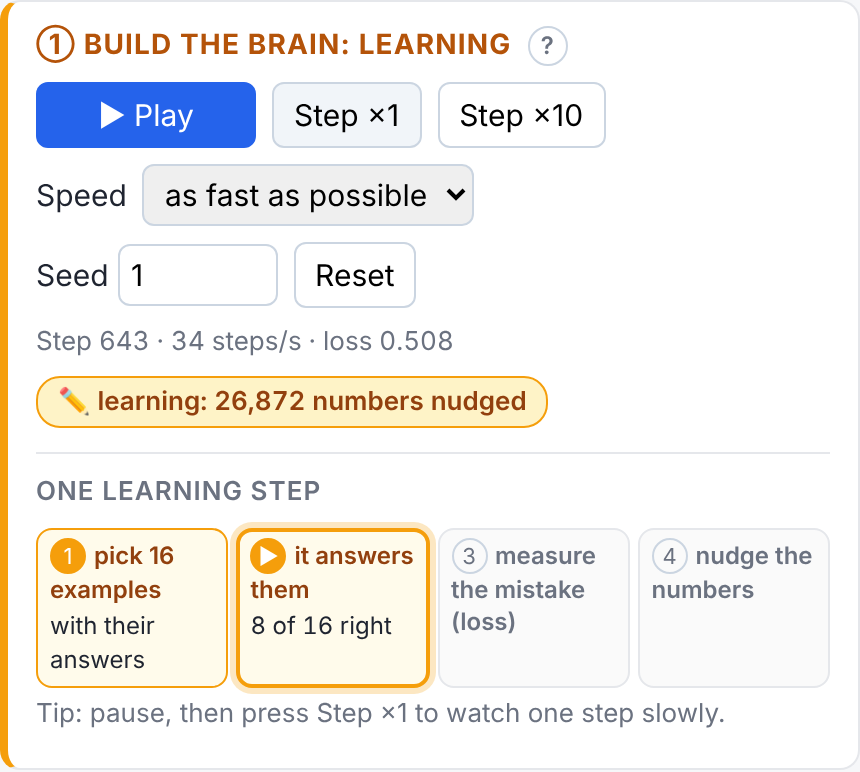
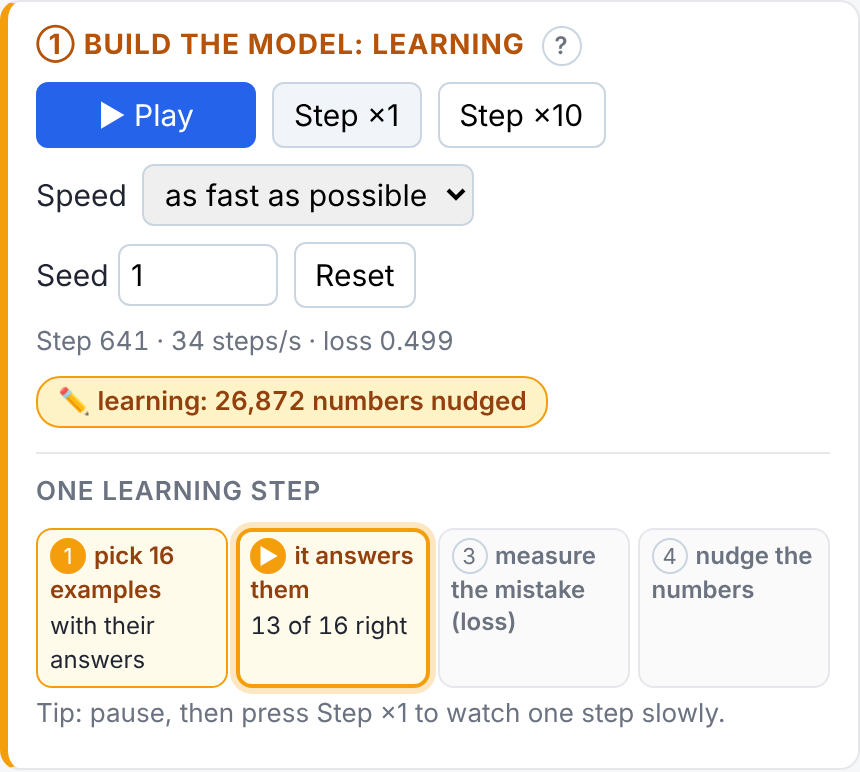
Say "model" everywhere instead of "brain"
All UI text in English and Czech (mozek -> model, same declension), code
comments and test names. Also fixes comments that still referred to the
old Forms and Practice tabs.

Claude-Session: https://claude.ai/code/session_01LQ43S1WB8cRF1rhYQSrvVX

diff --git a/src/ui/app.ts b/src/ui/app.ts
@@ -1,14 +1,14 @@
 /**
  * The app: five tabs, in the order of the story.
- * - Learning data: everything the brain learns from (see dataTab.ts).
- * - Model learning: everything that changes the brain: Play / Step / speed /
+ * - Learning data: everything the model learns from (see dataTab.ts).
+ * - Model learning: everything that changes the model: Play / Step / speed /
  *   seed, the learning badge, the one-step cycle, the latest batch (learning
  *   data and what it answered before learning from it), the loss chart and
  *   the letter map.
- * - Ask the model: everything that only reads the brain: the question box
+ * - Ask the model: everything that only reads the model: the question box
  *   with form and language pickers, the answer, guess bars, attention grids.
- * - Inside the brain: weight heatmaps (see inside.ts).
- * - Test: every animal tested, scoreboard. The brain is tested only while
+ * - Inside the model: weight heatmaps (see inside.ts).
+ * - Test: every animal tested, scoreboard. The model is tested only while
  *   this tab is open (or on request).
  *
  * All training happens in the worker; this file only sends messages and
@@ -88,7 +88,7 @@ export class App {
   private testLang = '';
   private question = { text: '', lang: '', form: 'female' };
   private dirty = { controls: true, answer: true, loss: true, scores: true, animals: true, practice: true, stamp: true };
-  /** The latest batch the brain practised on (learning), and when the strip last changed. */
+  /** The latest batch the model practised on (learning), and when the strip last changed. */
   private practice?: PracticeBatch;
   private practiceShownAt = -Infinity;
   private practiceTimer = 0;
@@ -96,7 +96,7 @@ export class App {
   private learnedAt = -Infinity;
   /** "Keep answering while it learns": re-ask after every tick even while training. */
   private live = false;
-  /** The answer changed because the brain changed (not the question): flash its step label. */
+  /** The answer changed because the model changed (not the question): flash its step label. */
   private stampFlash = false;
   /** "Write it slowly" replay of one answer: how many letters are shown so far. */
   private slow: { answer: AnswerMsg; shown: number; done: boolean; timer: number } | null = null;
@@ -174,7 +174,7 @@ export class App {
         if (this.losses.length > 40000) this.losses = this.losses.filter((_, i) => i % 2 === 0);
         if (msg.practice) this.onPractice(msg.practice, msg);
         if (msg.losses.length) this.requestInspect();
-        // Answering is separate from learning: while the brain learns, the answer
+        // Answering is separate from learning: while the model learns, the answer
         // waits (marked as out of date) unless the user asked for live answers.
         if (this.answer && this.answer.step !== msg.step && (!msg.running || this.live)) this.ask();
         this.invalidate('controls', 'loss', 'stamp');
@@ -187,7 +187,7 @@ export class App {
         this.askInFlight = false;
         if (msg.id === this.askId) {
           const prev = this.answer;
-          // Same question, new brain: the answer refreshed because the brain changed.
+          // Same question, new model: the answer refreshed because the model changed.
           if (prev && prev.step !== msg.step && prev.text === msg.text && prev.lang === msg.lang && prev.form === msg.form) this.stampFlash = true;
           this.answer = msg;
           this.invalidate('answer', 'stamp');
@@ -315,8 +315,8 @@ export class App {
   }
 
   /**
-   * Ask the worker for what the visible tab shows inside the brain: the
-   * weight heatmaps (Inside tab) or the letter map (Forms tab). At most one
+   * Ask the worker for what the visible tab shows inside the model: the
+   * weight heatmaps (Inside tab) or the letter map (Model learning tab). At most one
    * request in flight and one every INSPECT_MS; `now` skips the wait.
    */
   private requestInspect(now = false): void {
@@ -329,7 +329,7 @@ export class App {
     }
     this.inspectDirty = false;
     this.lastInspect = performance.now();
-    if (this.tab !== 'learn' && this.tab !== 'inside') return; // nothing inside the brain to show there
+    if (this.tab !== 'learn' && this.tab !== 'inside') return; // nothing inside the model to show there
     const inside = this.tab === 'inside';
     const matrixIds = inside ? this.inside.wanted() : [];
     if (inside && !matrixIds.length) return;
@@ -414,7 +414,7 @@ export class App {
     const expertPanel = h('div', { class: 'expert', hidden: true },
       h('label', {}, t('lr'), ' ', lr), h('label', {}, t('batch'), ' ', batch));
     const status = h('div', { class: 'status', 'data-test': 'status' });
-    // On the Ask tab: which brain answers, and whether it is learning (no training controls there).
+    // On the Ask tab: which model answers, and whether it is learning (no training controls there).
     const askStatusText = h('span');
     const goLearn = h('button', { class: 'link small', 'data-test': 'go-learn' }, t('askStatus.go'));
     goLearn.onclick = () => this.setTab('learn');
@@ -771,8 +771,8 @@ export class App {
   }
 
   /**
-   * Under the answer: which brain (step) answered, and that answering never
-   * changes it. While the brain learns, the answer is marked as out of date.
+   * Under the answer: which model (step) answered, and that answering never
+   * changes it. While the model learns, the answer is marked as out of date.
    */
   private renderStamp(): void {
     const { stamp, stampText, askAgain, output, barsWrap, attention } = this.els;

diff --git a/src/train/engine.ts b/src/train/engine.ts
@@ -37,7 +37,7 @@ const SLICE_MS = 12;
 const TICK_MS = 50;
 /** How many examples of the latest batch a tick carries. */
 export const PRACTICE_SAMPLE = 32;
-/** While the Practice tab is open and training is fast: answers before a step at most this often. */
+/** While the Model learning tab is open and training is fast: answers before a step at most this often. */
 const OWN_EVERY_MS = 500;
 
 export class Engine {
@@ -64,10 +64,10 @@ export class Engine {
   private beforeStep: Float32Array[] | null = null;
   /** Step of the latest practice batch sent in a tick (sent once per new step). */
   private lastPracticeStep = -1;
-  /** The Practice tab is open: practice batches carry the brain's own answers (see `watchPractice`). */
+  /** The Model learning tab is open: practice batches carry the model's own answers (see `watchPractice`). */
   private watchPractice = false;
   private lastOwnAt = -Infinity;
-  /** The latest batch the brain answered before learning from it. */
+  /** The latest batch the model answered before learning from it. */
   private answered: PracticeBatch | undefined;
   /**
    * The Test tab is open: test every animal on the EVAL schedule. Off by
@@ -147,7 +147,7 @@ export class Engine {
         break;
       case 'watchTests':
         this.watchTests = msg.on;
-        // Test now if this brain has not been tested yet (with the inventions if they are out of date).
+        // Test now if this model has not been tested yet (with the inventions if they are out of date).
         if (msg.on && this.lastEvalStep !== this.trainer.step) {
           this.evaluate(this.trainer.step - this.lastInventionStep >= EVAL.inventionsEverySteps || this.lastInventionStep < 0);
         }
@@ -189,8 +189,8 @@ export class Engine {
   }
 
   /**
-   * How many of the next batch's questions the brain should answer before
-   * learning from them (for the Practice tab and the one-step cycle). Always
+   * How many of the next batch's questions the model should answer before
+   * learning from them (for the Model learning tab and the one-step cycle). Always
    * for Step and slow speeds (cheap); at high speeds only while the Practice
    * tab is open, and at most every OWN_EVERY_MS (one greedy pass each).
    */
@@ -251,7 +251,7 @@ export class Engine {
     // The latest batch it practised on (only when there is a new one).
     let practice: PracticeBatch | undefined;
     if (this.watchPractice && this.fastRun()) {
-      // Practice tab open at high speed: show the latest batch it answered (kept
+      // Model learning tab open at high speed: show the latest batch it answered (kept
       // until sent, since later steps of the same tick would replace it).
       if (this.answered && this.answered.step !== this.lastPracticeStep) practice = this.answered;
     } else if (tr.step !== this.lastPracticeStep) {

diff --git a/src/train/trainer.ts b/src/train/trainer.ts
@@ -72,7 +72,7 @@ export interface PracticeExample {
   /** The right answer (the learning data). */
   target: string;
   /**
-   * What the brain answered when asked this question just before the step
+   * What the model answered when asked this question just before the step
    * (ordinary answering: no help, nothing changes). Only present when the
    * step was asked to answer first, see `trainStep(answerFirst)`.
    */
@@ -88,7 +88,7 @@ export interface PracticeBatch {
   loss: number;
   /** The first examples of the batch (at most the limit asked for). */
   examples: PracticeExample[];
-  /** If the brain answered them first: how many of the shown examples it got right. */
+  /** If the model answered them first: how many of the shown examples it got right. */
   rightCount?: number;
 }
 
@@ -130,7 +130,7 @@ export class FormTrainer {
   /** Packs whose animals count as "new" on the scoreboard (Teach mode). */
   freshPacks = new Set<string>();
   private mix: MixPart[] = [];
-  /** The latest batch, and what the brain answered before learning from it (if asked to). */
+  /** The latest batch, and what the model answered before learning from it (if asked to). */
   private last: { step: number; tasks: Task[]; answers: string[]; loss: number } | null = null;
 
   constructor(public dataset: Dataset, opts: TrainerOptions) {
@@ -195,7 +195,7 @@ export class FormTrainer {
 
   /**
    * One optimisation step on a random batch. Returns the batch loss.
-   * With `answerFirst` > 0, the brain first answers that many of the batch's
+   * With `answerFirst` > 0, the model first answers that many of the batch's
    * questions the ordinary way (greedy, no dropout, weights only read), so the
    * UI can show "learning data → what it answered → right or wrong" before
    * the mistake is measured and the numbers are nudged.

diff --git a/tests/train/engine.test.ts b/tests/train/engine.test.ts
@@ -223,7 +223,7 @@ describe('Engine', () => {
     expect((h.of('tick').at(-1) as TickMsg).practice).toBeUndefined();
   });
 
-  it('answers before each step while paused or slow; at max speed only for the open Practice tab', () => {
+  it('answers before each step while paused or slow; at max speed only for the open Model learning tab', () => {
     const h = fakeHost();
     const e = new Engine(h.host, ds);
     e.handle({ type: 'init', seed: 3, speed: 'max' });
@@ -231,11 +231,11 @@ describe('Engine', () => {
     const stepped = (h.of('tick').at(-1) as TickMsg).practice!;
     expect(stepped.examples.every((x) => typeof x.answer === 'string')).toBe(true);
     expect(stepped.rightCount).toBeDefined();
-    // Max speed, Practice tab closed: no answering (full speed).
+    // Max speed, Model learning tab closed: no answering (full speed).
     e.handle({ type: 'play' });
     h.runDue(2);
     expect(h.of('tick').filter((t) => (t as TickMsg).practice?.step! > 1).every((t) => (t as TickMsg).practice!.rightCount === undefined)).toBe(true);
-    // Practice tab open: only answered batches are sent.
+    // Model learning tab open: only answered batches are sent.
     e.handle({ type: 'watchPractice', on: true });
     const from = h.sent.length;
     h.runDue(6);
@@ -245,7 +245,7 @@ describe('Engine', () => {
     e.handle({ type: 'pause' });
   });
 
-  it('answering and evaluating never change the brain', () => {
+  it('answering and evaluating never change the model', () => {
     const h = fakeHost();
     const e = new Engine(h.host, ds);
     const twin = new Engine(fakeHost().host, ds);

diff --git a/src/ui/style.css b/src/ui/style.css
@@ -105,7 +105,7 @@ canvas { display: block; }
 .map-legend { display: flex; flex-wrap: wrap; gap: 4px 12px; font-size: 12px; color: var(--muted); margin-top: 8px; }
 .map-legend span { display: inline-flex; align-items: center; gap: 4px; }
 
-/* Inside the brain */
+/* Inside the model */
 .inside-head .intro { font-size: 18px; margin: 0 0 10px; }
 .legend { display: flex; align-items: center; gap: 6px; font-size: 13px; color: var(--muted); }
 .swatch-box { display: inline-block; width: 14px; height: 14px; border: 1px solid #cbd5e1; margin-left: 8px; }
@@ -163,7 +163,7 @@ button.small-btn { font-size: 13px; padding: 2px 8px; }
 .cycle .stage.lit .see-change { display: inline; }
 .cycle-note { margin: 4px 0 6px; }
 
-/* Answer: which brain answered */
+/* Answer: which model answered */
 .stamp-row { display: flex; align-items: center; gap: 14px; flex-wrap: wrap; margin: -4px 0 10px; }
 .stamp { font-size: 13px; padding: 3px 8px; border-radius: 6px; background: #eff6ff; color: #1e3a8a; }
 .stamp[hidden] { display: none; }
@@ -199,7 +199,7 @@ button.small-btn { font-size: 13px; padding: 2px 8px; }
 .practice-table .word-own.close { color: var(--close); }
 .practice-table .word-own.wrong { color: var(--wrong); }
 
-/* Learning data tab: everything the brain learns from */
+/* Learning data tab: everything the model learns from */
 main.data-main { padding: 14px 20px; max-width: 1240px; }
 .data-summary { display: flex; flex-wrap: wrap; gap: 8px 22px; align-items: baseline; margin-bottom: 10px; }
 .data-summary .stat { font-size: 14px; color: var(--muted); }

diff --git a/src/ui/dataTab.ts b/src/ui/dataTab.ts
@@ -1,5 +1,5 @@
 /**
- * "Learning data" tab: everything the brain learns from, as one table per
+ * "Learning data" tab: everything the model learns from, as one table per
  * language. For each animal: its name (copy practice) and the right male /
  * female / young word where the data has one. Never-seen animals are listed
  * too, greyed out: they are kept aside to test it, and their answers stay
@@ -15,7 +15,7 @@ import { t, uiLang } from './i18n';
 type DataFilter = 'all' | 'train' | 'unseen';
 const FILTERS: DataFilter[] = ['all', 'train', 'unseen'];
 
-/** Counts of what the brain learns from, per language and in total. */
+/** Counts of what the model learns from, per language and in total. */
 export interface DataCounts {
   animals: number;
   train: number;
@@ -54,7 +54,7 @@ export class DataTab {
   private filterPick: HTMLElement;
   private table: HTMLElement;
 
-  /** `onAsk`: a word was clicked; ask the brain that question on the Ask tab. */
+  /** `onAsk`: a word was clicked; ask the model that question on the Ask tab. */
   constructor(private onAsk: (text: string, lang: string, form: string) => void) {
     this.summary = h('div', { class: 'data-summary', 'data-test': 'data-summary' });
     this.langPick = h('div', { class: 'picker', role: 'group', 'aria-label': t('language') });

diff --git a/e2e/smoke.spec.ts b/e2e/smoke.spec.ts
@@ -22,7 +22,7 @@ test('loads, trains in the worker and answers a question', async ({ page }) => {
   await expect(page.locator('[data-test=practice] td.answer .word-own')).toHaveCount(16);
   await expect(page.locator('[data-test=letter-map]')).toBeVisible();
 
-  // Ask the model: the answer comes from the brain at step 1; no training controls here.
+  // Ask the model: the answer comes from the model at step 1; no training controls here.
   await page.click('[data-test=tab-ask]');
   await expect(page.locator('[data-test=output] .word')).toBeVisible();
   await expect(page.locator('[data-test=stamp]')).toContainText(/step 1\b/);
@@ -55,7 +55,7 @@ test('loads, trains in the worker and answers a question', async ({ page }) => {
   await expect(page.locator('[data-test=slow-caption]')).toHaveText('');
   await expect(page.locator('[data-test=attention] canvas')).toHaveCount(3);
 
-  // Inside the brain: heatmaps.
+  // Inside the model: heatmaps.
   await page.click('[data-test=tab-inside]');
   await expect(page.locator('[data-test=heatmaps] canvas[data-matrix=tokEmb]')).toBeVisible();
   await expect(page.locator('[data-test=mode-note]')).toContainText(/changed/);

diff --git a/src/train/protocol.ts b/src/train/protocol.ts
@@ -33,12 +33,12 @@ export type ToWorker =
   | { type: 'evaluate'; inventions?: boolean }
   /**
    * The Test tab is open (on) or closed (off). While on, every animal is
-   * tested on a schedule (and right away if this brain was not tested yet);
+   * tested on a schedule (and right away if this model was not tested yet);
    * while off, only on `evaluate`.
    */
   | { type: 'watchTests'; on: boolean }
   /**
-   * The Practice tab is open (on) or closed (off). While on, the brain also
+   * The Model learning tab is open (on) or closed (off). While on, the model also
    * answers the shown examples before learning from them at high speeds (at
    * most every 500 ms; at slow speeds and on Step it always does).
    */

diff --git a/src/ui/inside.ts b/src/ui/inside.ts
@@ -1,5 +1,5 @@
 /**
- * "Inside the brain" tab: a heatmap per weight matrix (weights, their
+ * "Inside the model" tab: a heatmap per weight matrix (weights, their
  * change in the last steps, or the gradient), and in expert mode
  * "follow the signal" for the current word.
  */
@@ -12,7 +12,7 @@ import { t, uiLang } from './i18n';
 
 const MODES: InspectMode[] = ['weights', 'delta', 'grad'];
 
-/** Which part of the brain a matrix belongs to, for grouping. */
+/** Which part of the model a matrix belongs to, for grouping. */
 function group(name: string): string {
   if (/^enc(\d|Norm)/.test(name)) return 'encoder';
   if (/^dec(\d|Norm)/.test(name)) return 'decoder';

diff --git a/tests/train/trainer.test.ts b/tests/train/trainer.test.ts
@@ -34,7 +34,7 @@ describe('FormTrainer', () => {
     expect(plain.rightCount).toBeUndefined();
     expect(plain.examples[0].answer).toBeUndefined();
 
-    // Answering first: the answers are those of the brain before the step.
+    // Answering first: the answers are those of the model before the step.
     const before = new FormTrainer(ds, { seed: 7 });
     before.trainStep();
     const snapshot = before.model.params.snapshot();

diff --git a/docs/HANDOFF.md b/docs/HANDOFF.md
@@ -20,9 +20,9 @@ This is a **teaching demo**. The goal is to show how the model works (token-by-t
 |---|---|
 | M1 brain library | **Done.** `src/nn`: tensors, tape autograd, ops (all gradient-checked), Adam/AdamW, dropout, translator with KV-cached greedy decoding, copy mechanism, target-token start, serialisation f32/f16/int8, vocabulary growth. |
 | M2 training in the browser | **Done** (pending the user's data review). Dataset v2 + validator + review doc, `FormTrainer` with copy practice, engine + worker + protocol, minimal UI, Playwright smoke test. ~38 steps/s in the browser; known cs 98% / en 93% at 5k steps (accepted by the user). |
-| M3 seeing inside | **Done** (merged into `main`). Tabs (Forms · Inside the brain), attention grids linked to the guess bars, letter map (PCA + Procrustes + glide), weight / change / gradient heatmaps, "follow the signal" (expert). |
+| M3 seeing inside | **Done** (merged into `main`). Tabs (Forms · Inside the model), attention grids linked to the guess bars, letter map (PCA + Procrustes + glide), weight / change / gradient heatmaps, "follow the signal" (expert). |
 | Learning vs answering | **Done in a PR** (user feedback after M3): ① Build / ② Ask phases, Practice tab (now part of Model learning) with the latest batch: learning data vs what it answered before the step (`tick.practice`, `watchPractice`), frozen-brain step label, answer waits while training (+ "keep answering" toggle), Write it slowly, one-step cycle. See DECISIONS. |
-| Tab reorganisation (user, in steps) | **Steps 1–3 done in a PR.** Tabs now follow the story: Learning data (opens first, `src/ui/dataTab.ts`) · Model learning (build controls, cycle, batch, loss, letter map) · Ask the model (question, answer, guesses, attention; status line, no training controls) · Inside the brain · Test (every animal, tested only while open: `watchTests`). Expert checkbox in the header. Further steps to come from the user. See DECISIONS. |
+| Tab reorganisation (user, in steps) | **Steps 1–3 done in a PR.** Tabs now follow the story: Learning data (opens first, `src/ui/dataTab.ts`) · Model learning (build controls, cycle, batch, loss, letter map) · Ask the model (question, answer, guesses, attention; status line, no training controls) · Inside the model · Test (every animal, tested only while open: `watchTests`). Expert checkbox in the header. All UI text says "model" (not "brain"). Further steps to come from the user. See DECISIONS. |
 | M4 time travel | **Next.** |
 | M5–M7 | Not started. |
 
@@ -45,7 +45,7 @@ This is a **teaching demo**. The goal is to show how the model works (token-by-t
 ## Waiting for the user
 
 - **Data review:** 19 `unsure` entries; regenerate the table with `npm run validate-data -- --review` → `docs/DATA_REVIEW.md` (deferred by the user: "data tuning later").
-- **Czech UI copy:** `src/ui/i18n/cs.json` (M3 added ~70 strings: tabs, attention, letter map, Inside the brain; the learning-vs-answering PR added 42: `tab.practice`, `build.*`, `learning.*`, `practice.*`, `cycle.*`, `ask.*`, `stamp.*`, `slow.*`; the Learning data tab added 26: `tab.data`, `data.*`; the tab reorganisation added `tab.test`, `tab.learn`, `tab.ask`, `test.*`, `askStatus.*` and reworded `data.explain`, `data.help`).
+- **Czech UI copy:** `src/ui/i18n/cs.json` (M3 added ~70 strings: tabs, attention, letter map, Inside the model; the learning-vs-answering PR added 42: `tab.practice`, `build.*`, `learning.*`, `practice.*`, `cycle.*`, `ask.*`, `stamp.*`, `slow.*`; the Learning data tab added 26: `tab.data`, `data.*`; the tab reorganisation added `tab.test`, `tab.learn`, `tab.ask`, `test.*`, `askStatus.*` and reworded `data.explain`, `data.help`).
 - **M3 review:** the PR's screenshots and questions.
 
 ## Hosting

diff --git a/docs/DECISIONS.md b/docs/DECISIONS.md
@@ -170,3 +170,7 @@ User: "Maybe there should be one tab Model learning, because this is really part
 - **Expert checkbox moved to the header:** it affects several tabs (settings on Model learning, extra attention grids on Ask, the Inside tab, the log-scale loss chart). Label back to "Expert" / "Pro pokročilé".
 - Clicking a word on Learning data or Test asks it on the Ask tab.
 - Tab names use "model" as the user wrote them; the panels still say "brain" (① Build the brain, ② Ask the brain, Inside the brain). Unifying the wording is a possible later step.
+
+## "Model" instead of "brain" (user request)
+
+User: "use 'model' everywhere instead of 'brain'". All UI text now says model: the subtitle ("A tiny model learns animal word forms"), ① Build the model, ② Ask the model, Inside the model, the step stamp, help texts and tooltips. Czech: mozek → model with the same declension (mozku → modelu, mozkem → modelem); both are masculine inanimate, so the adjectives and verbs around them stay as they were. Code comments and test names were changed too, so the codebase uses one word. Older entries in this file keep "brain" as written at the time.
